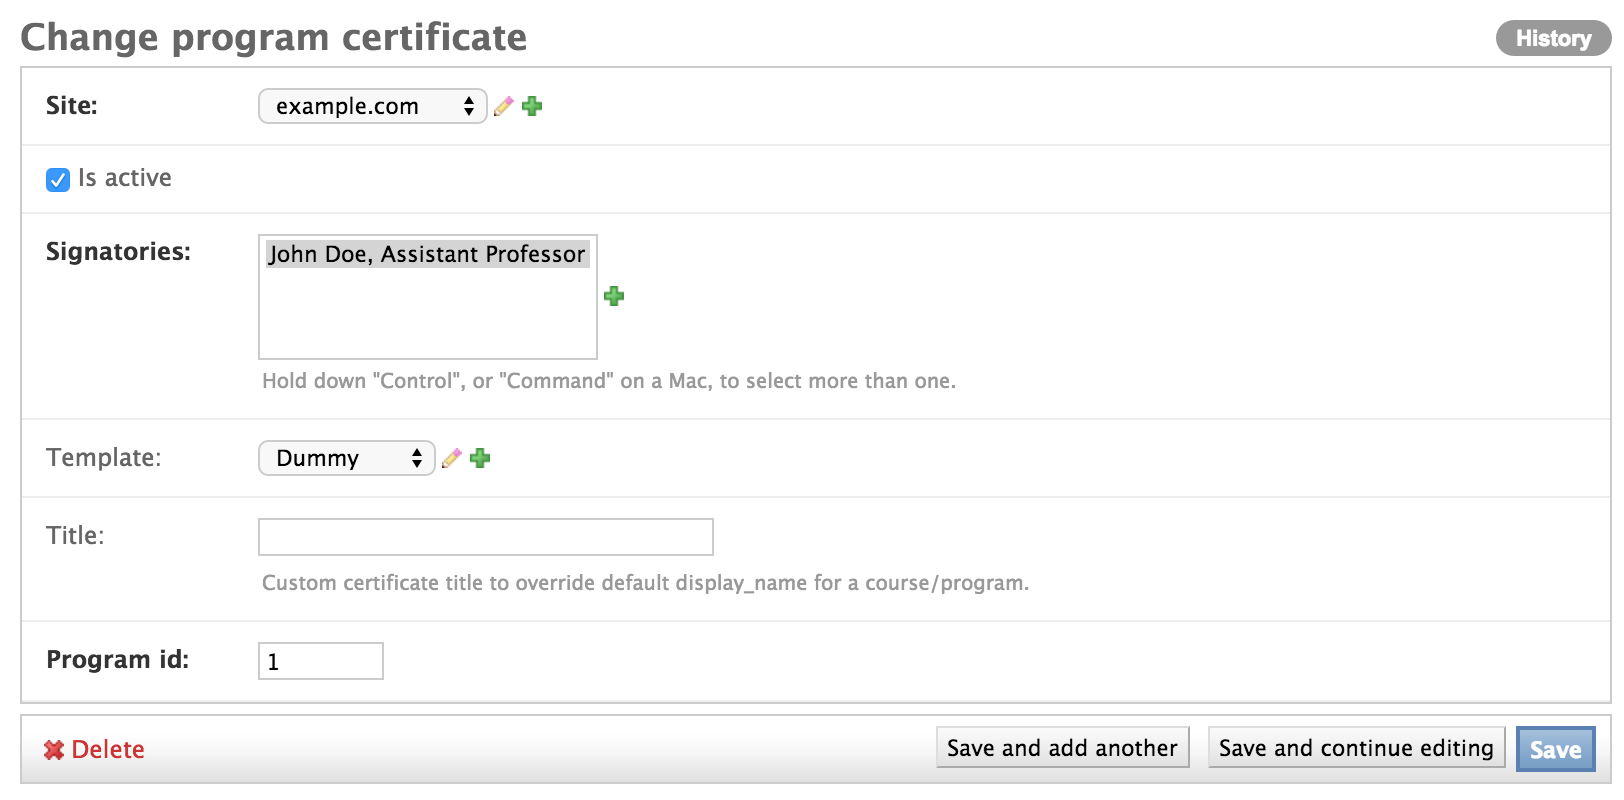
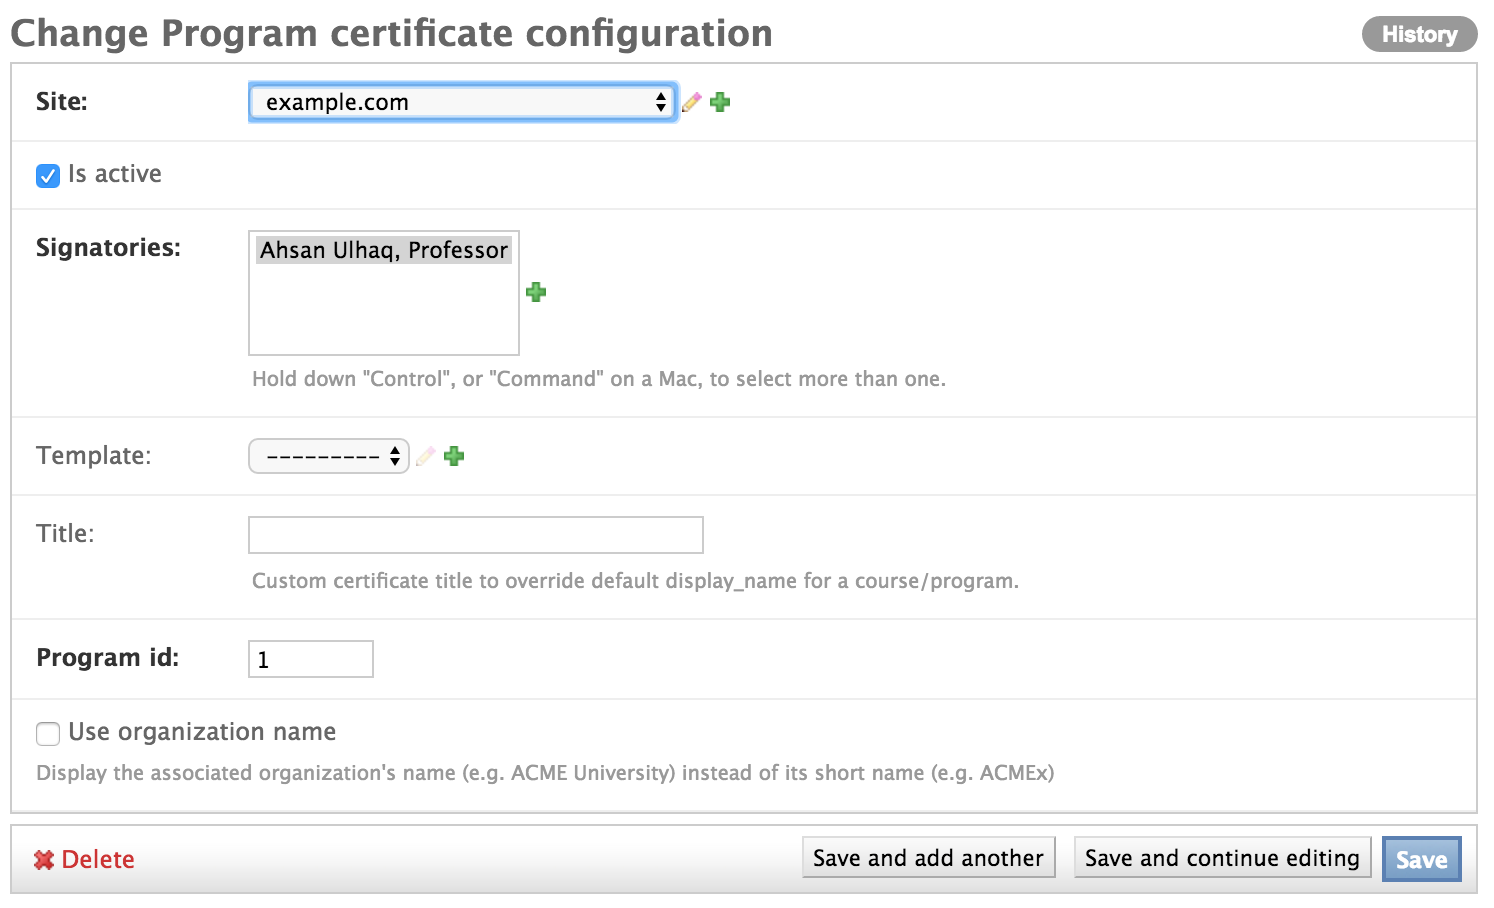
Add documentation for organization name check

diff --git a/docs/credentials_admin.rst b/docs/credentials_admin.rst
@@ -119,3 +119,5 @@ The following image shows the ``ProgramCertificate`` model in the Django adminis
 .. image:: _static/images/program_certificate.png
     :width: 600px
     :alt: Populated program certificate model
+
+In ``ProgramCertificate`` if ``Use organization name`` is checked then organization full name will be displayed on the certificate else short name would be displayed.
